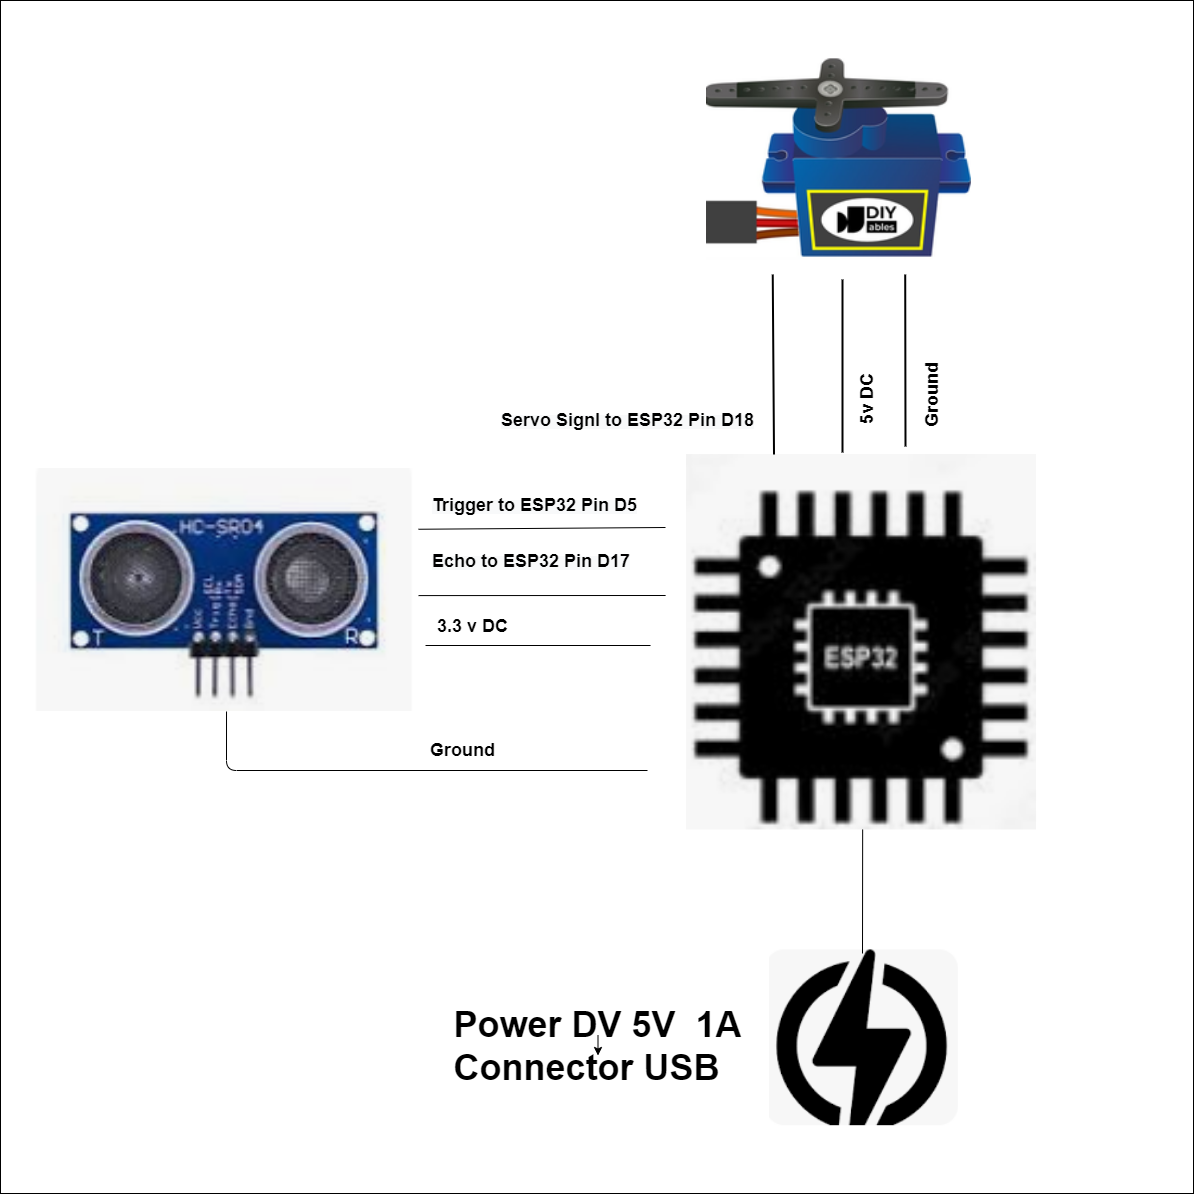
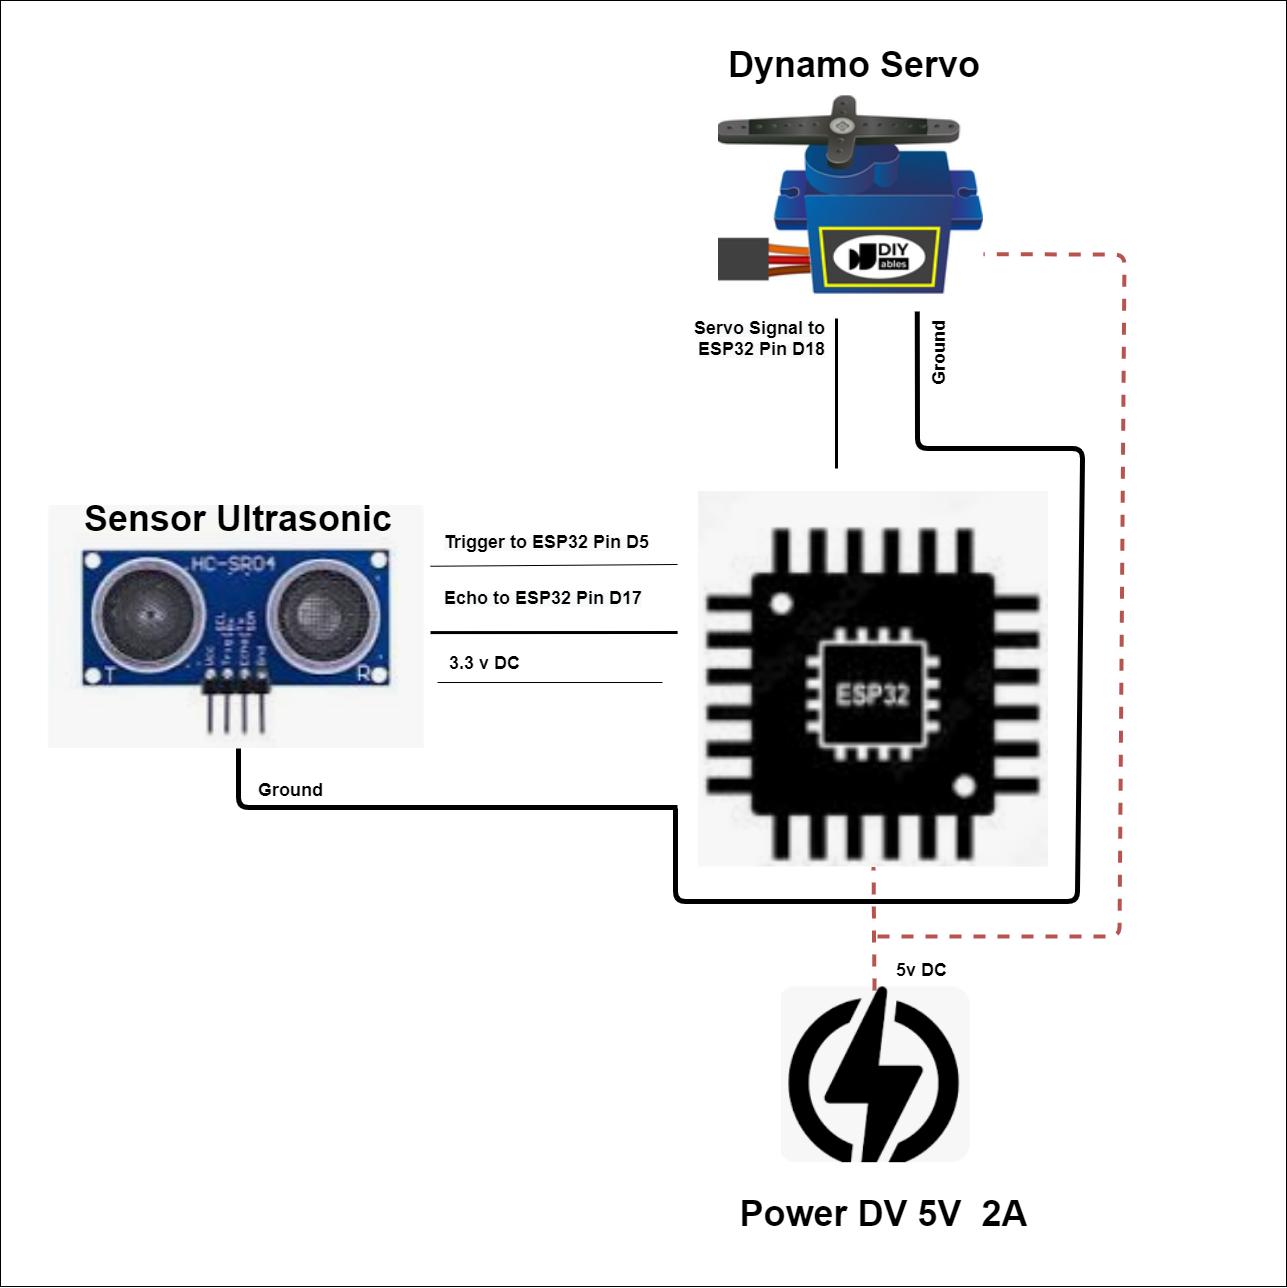
update: evidance baru

Changed region(s): [[0.031, 0.031, 0.8669, 0.9598], [0.0, 0.0, 1.0, 1.0]]

diff --git a/README.md b/README.md
@@ -78,21 +78,34 @@ To allow Pygame and Matplotlib to draw GUI windows from inside the Linux-based D
   ![X-Server Step 4](ss/5-x-server-install-4.png)
   We complete the installation and save the configuration file so VcXsrv can be launched with these identical parameters in the future.
 
-### 3.3. MQTT Broker Verification
+### 3.3. MQTT Broker & Client Connection Verification
 - **Broker logs**
-  ![MQTT Broker Status](ss/6-mqtt-broker.png)
+  ![MQTT Broker Status](ss/7-mqtt-broker.png)
   This screenshot shows the console logs of the running Mosquitto MQTT broker container. The output confirms that the broker is listening on port `1883` and successfully accepts incoming TCP connections.
 
+- **ESP32 Connection to MQTT**
+  ![ESP32 Connection to MQTT](ss/6-connection-to-mqtt.png)
+  This shows that the ESP32 client is successfully connecting to the Mosquitto broker and starts publishing the radar angle and distance data.
+
 - **Broker communication testing**
-  ![Postman MQTT Test](ss/7-mqtt-broker-test-via-postmant.png)
+  ![Postman MQTT Test](ss/8-mqtt-broker-test-via-postmant.png)
   Using Postman's MQTT client, we connect directly to the broker to verify that messages are properly routed. The test confirms that simulated sensor payloads (such as publishing distance and angle data) are correctly received and formatted.
 
 ### 3.4. Final GUI Visualization Output
-![Radar Map Visual](ss/8-visualilasi-radar-mapping.png)
+![Radar Map Visual](ss/9-visualilasi-radar-mapping.jpg)
 This screenshot showcases the final running visualization from `radar_mapper.py`. The dark-themed polar radar dashboard displays:
 - A sweeping **radar line** in bright green representing the current servo angle.
 - Red **obstacle dots (Point Cloud)** showing mapped object locations.
 - **Data readouts** displaying the calculated space area in real time, the current sweep angle, and the detected distance.
+
+### 3.5. Hardware Setup & Real-time Integration Evidence
+- **Physical Microcontroller Setup**
+  ![Microcontroller Servo Ultrasonic](ss/11-microcontroller-servo-ultrasonik.jpg)
+  This image shows the actual physical wiring and setup of the ESP32 connected to the SG90 servo motor and the HC-SR04 ultrasonic sensor.
+
+- **Real-time Visualization and Microcontroller Alignment**
+  ![Radar Mapping and Microcontroller](ss/10-visualilasi-radar-mapping-and-micro-controller.jpg)
+  This highlights the complete end-to-end integration: the hardware sweeps physically while the Python GUI maps the obstacles on the screen in real-time.
 
 ---
 